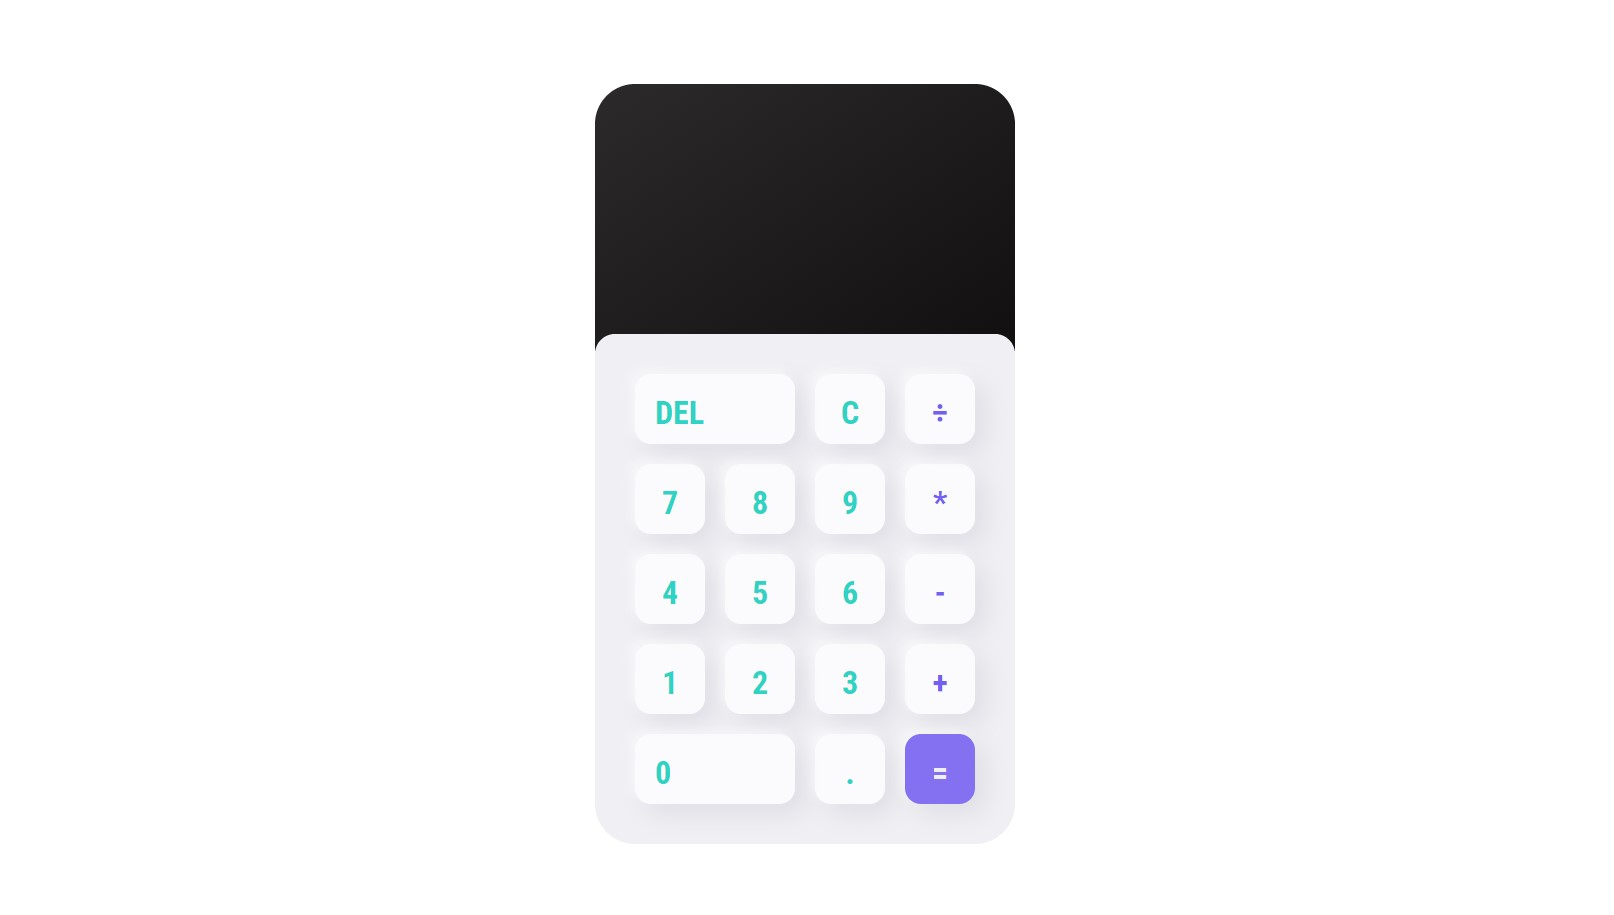
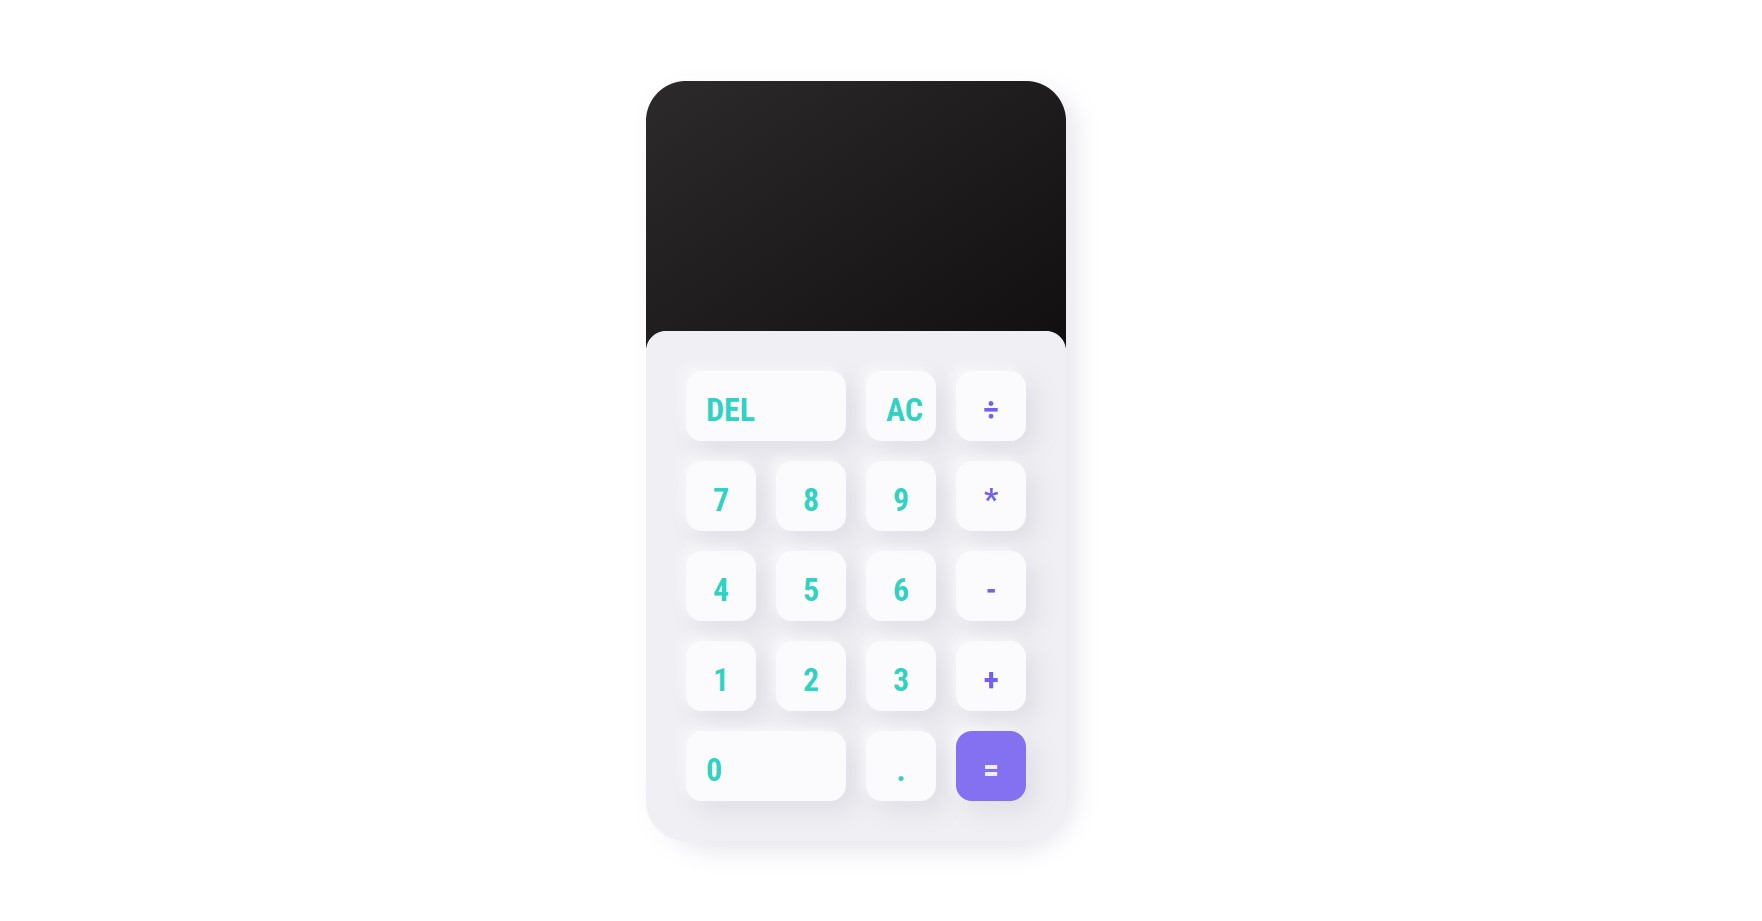
Update screenshot

diff --git a/index.html b/index.html
@@ -18,7 +18,7 @@
 
         <div class="key-group">
             <button class="span-two text-transform color-digit text-left" data-delete>Del</button>
-            <button class="color-digit" data-all-clear>C</button>
+            <button class="color-digit" data-all-clear>AC</button>
             <button class="color-operation" data-operation>÷</button>
             <button class="color-digit" data-number>7</button>
             <button class="color-digit" data-number>8</button>

diff --git a/style.css b/style.css
@@ -19,6 +19,7 @@ body {
 
 .calculator-grid {
     background: linear-gradient(145.27deg, #2E2C2C -4.62%, #0B0A0A 64.58%);
+    box-shadow: -5px -5px 10px rgba(255, 255, 255, 0.5), 10px 10px 24px rgba(174, 174, 192, 0.3);
     border-radius: 2rem;
     border-bottom-left-radius: 3rem;
     border-bottom-right-radius: 3rem;
